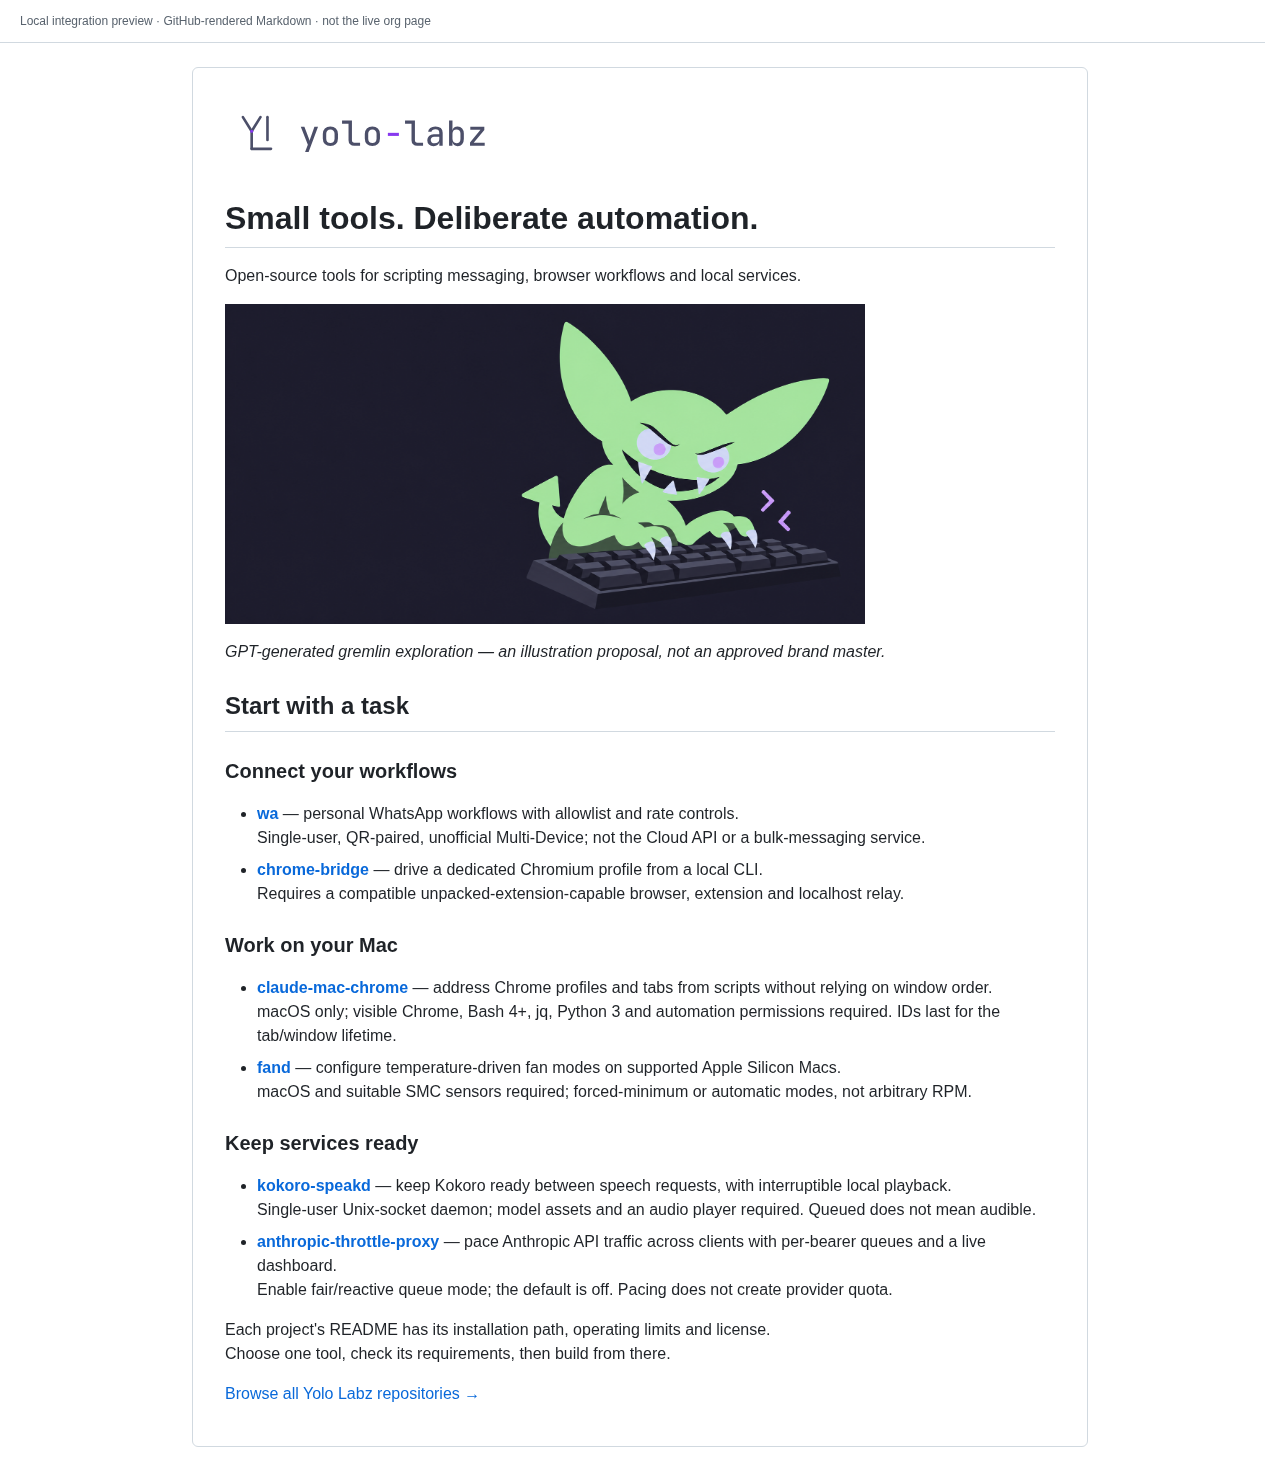
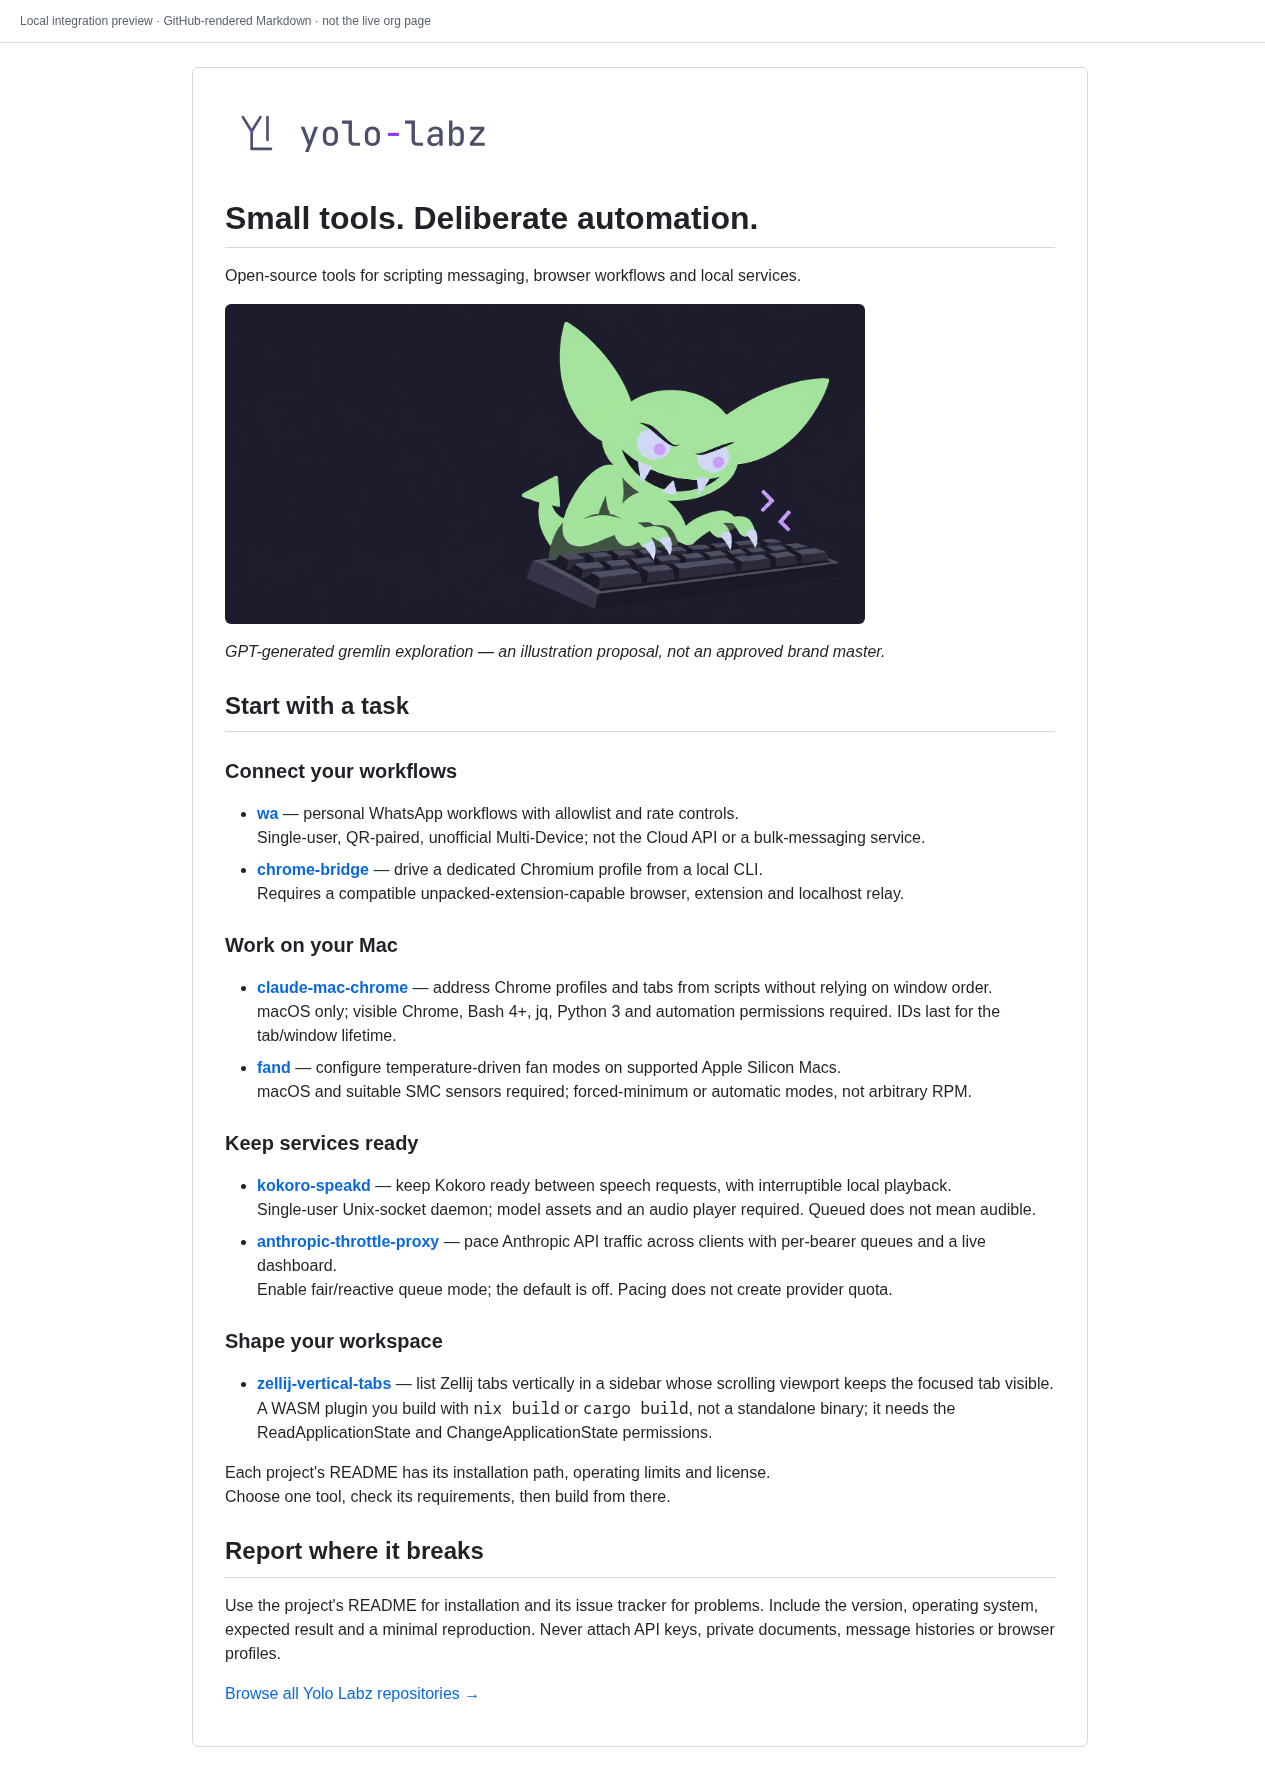
chore(rollout): re-render the evidence against the current README (#36)
The saved renders were bound to the 30/10 README; #16, #22 and #25 changed it.
Re-rendered 1280/360 x light/dark on the server fleet (brave-search, Chrome
155.0.8059.79): 7 listed projects, hero shown at 640 px, no overflow,
image-failure navigation passes. checks.json, preview.html, renders.json, the
four screenshots and render-run.json now bind to profile sha 4f6c6cfb96a4;
verify.py --require-fresh exits 0.

diff --git a/profile/assets/brand/rollout/preview.html b/profile/assets/brand/rollout/preview.html
@@ -2,7 +2,7 @@
 <html lang="en">
 <meta charset="utf-8">
 <meta name="viewport" content="width=device-width, initial-scale=1">
[2 lines of base64/hex data omitted]
 <base href="../../../../">
 <title>Yolo Labz — local README integration preview</title>
 <style>
@@ -37,7 +37,7 @@
 </picture></themed-picture>
 <h1 dir="auto">Small tools. Deliberate automation.</h1>
 <p dir="auto">Open-source tools for scripting messaging, browser workflows and local services.</p>
-<p dir="auto"><a target="_blank" rel="noopener noreferrer nofollow" href="profile/assets/brand/rollout/gremlin-wide-hero.png"><img src="profile/assets/brand/rollout/gremlin-wide-hero.png" alt="Green programming gremlin with pointed ears and a fanged grin typing on a keyboard, with mauve code accents" width="640" style="max-width: 100%;"></a></p>
+<p dir="auto"><a target="_blank" rel="noopener noreferrer nofollow" href="profile/assets/brand/rollout/gremlin-wide-hero.png"><img src="profile/assets/brand/rollout/gremlin-wide-hero.png" alt="Green programming gremlin with pointed ears and a fanged grin typing on a keyboard, with mauve code accents" width="640" height="320" style="max-width: 100%; height: auto; max-height: 320px;; aspect-ratio: 640 / 320; background-color: var(--bgColor-muted); border-radius: 6px" class="js-gh-image-fallback"></a></p>
 <p dir="auto"><em>GPT-generated gremlin exploration — an illustration proposal, not an approved brand master.</em></p>
 <h2 dir="auto">Start with a task</h2>
 <h3 dir="auto">Connect your workflows</h3>
@@ -61,8 +61,15 @@ Single-user Unix-socket daemon; model assets and an audio player required. Queue
 <li><strong><a href="https://github.com/yolo-labz/anthropic-throttle-proxy">anthropic-throttle-proxy</a></strong> — pace Anthropic API traffic across clients with per-bearer queues and a live dashboard.<br>
 Enable fair/reactive queue mode; the default is off. Pacing does not create provider quota.</li>
 </ul>
+<h3 dir="auto">Shape your workspace</h3>
+<ul dir="auto">
+<li><strong><a href="https://github.com/yolo-labz/zellij-vertical-tabs">zellij-vertical-tabs</a></strong> — list Zellij tabs vertically in a sidebar whose scrolling viewport keeps the focused tab visible.<br>
+A WASM plugin you build with <code class="notranslate">nix build</code> or <code class="notranslate">cargo build</code>, not a standalone binary; it needs the ReadApplicationState and ChangeApplicationState permissions.</li>
+</ul>
 <p dir="auto">Each project's README has its installation path, operating limits and license.<br>
 Choose one tool, check its requirements, then build from there.</p>
+<h2 dir="auto">Report where it breaks</h2>
+<p dir="auto">Use the project's README for installation and its issue tracker for problems. Include the version, operating system, expected result and a minimal reproduction. Never attach API keys, private documents, message histories or browser profiles.</p>
 <p dir="auto"><a href="https://github.com/orgs/yolo-labz/repositories">Browse all Yolo Labz repositories →</a></p>
 </main>
 </html>
